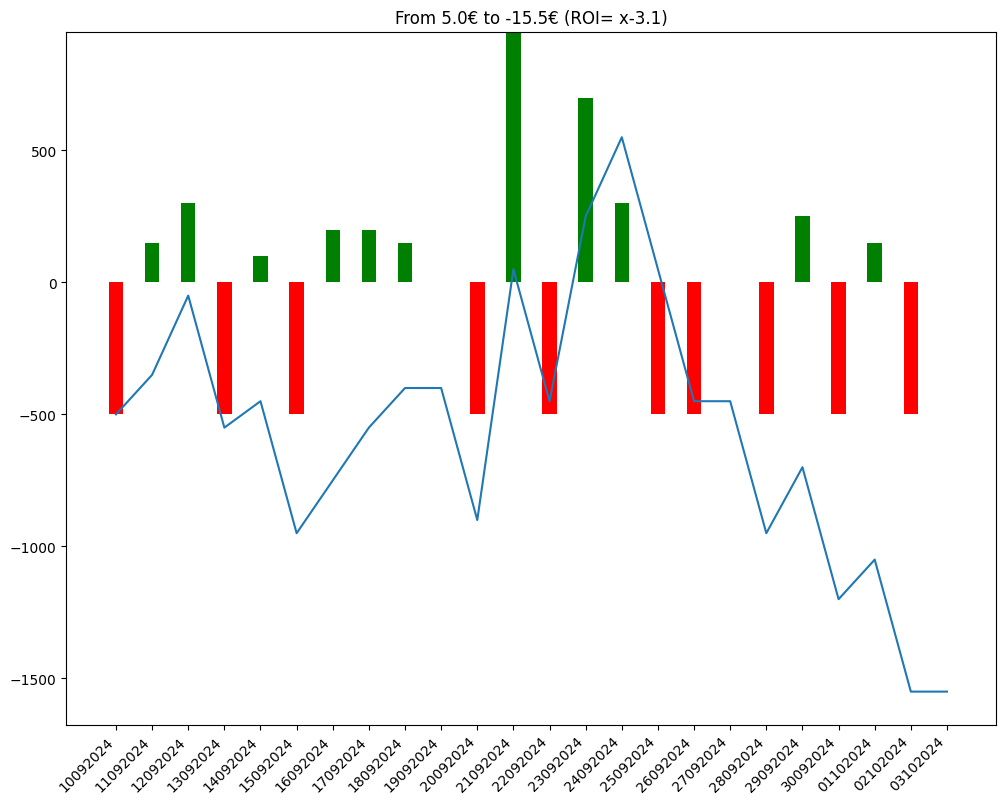
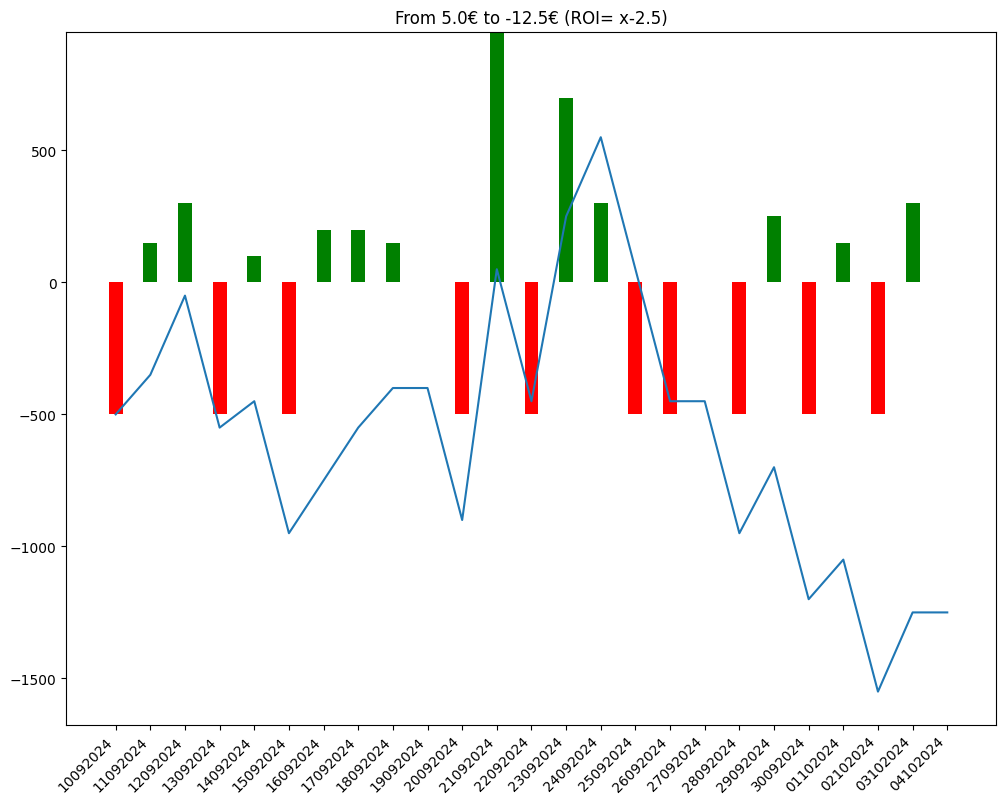
comment from python script

diff --git a/bethistory.html b/bethistory.html
@@ -86,7 +86,8 @@
             En observant la courbe 🤔, on peut avoir une idée visuelle de l'évolution des gains et ainsi évaluer le model utilisé 🧑🏫.
         </p>
         
-        <img src = "/candle.png" alt="candle chart"/><table><tr><td>Chevaux joués</td><td>Gains</td><td>URL Circuits</td></tr><tr><td>1 - INATTENDU</td><td>0</td><td><a href=https://www.pmu.fr/turf/03102024/r3/c5 target="_blank">https://www.pmu.fr/turf/03102024/r3/c5</a></td></tr>
+        <img src = "/candle.png" alt="candle chart"/><table><tr><td>Chevaux joués</td><td>Gains</td><td>URL Circuits</td></tr><tr><td>1 - DOHA</td><td>0</td><td><a href=https://www.pmu.fr/turf/04102024/r4/c4 target="_blank">https://www.pmu.fr/turf/04102024/r4/c4</a></td></tr>
+<tr><td>1 - INATTENDU</td><td>+300</td><td><a href=https://www.pmu.fr/turf/03102024/r3/c5 target="_blank">https://www.pmu.fr/turf/03102024/r3/c5</a></td></tr>
 <tr><td>8 - ZOE</td><td>-500</td><td><a href=https://www.pmu.fr/turf/02102024/r4/c6 target="_blank">https://www.pmu.fr/turf/02102024/r4/c6</a></td></tr>
 <tr><td>4 - AIVLIS</td><td>+150</td><td><a href=https://www.pmu.fr/turf/01102024/r3/c4 target="_blank">https://www.pmu.fr/turf/01102024/r3/c4</a></td></tr>
 <tr><td>4 - GENERAL JONES</td><td>-500</td><td><a href=https://www.pmu.fr/turf/30092024/r3/c3 target="_blank">https://www.pmu.fr/turf/30092024/r3/c3</a></td></tr>
